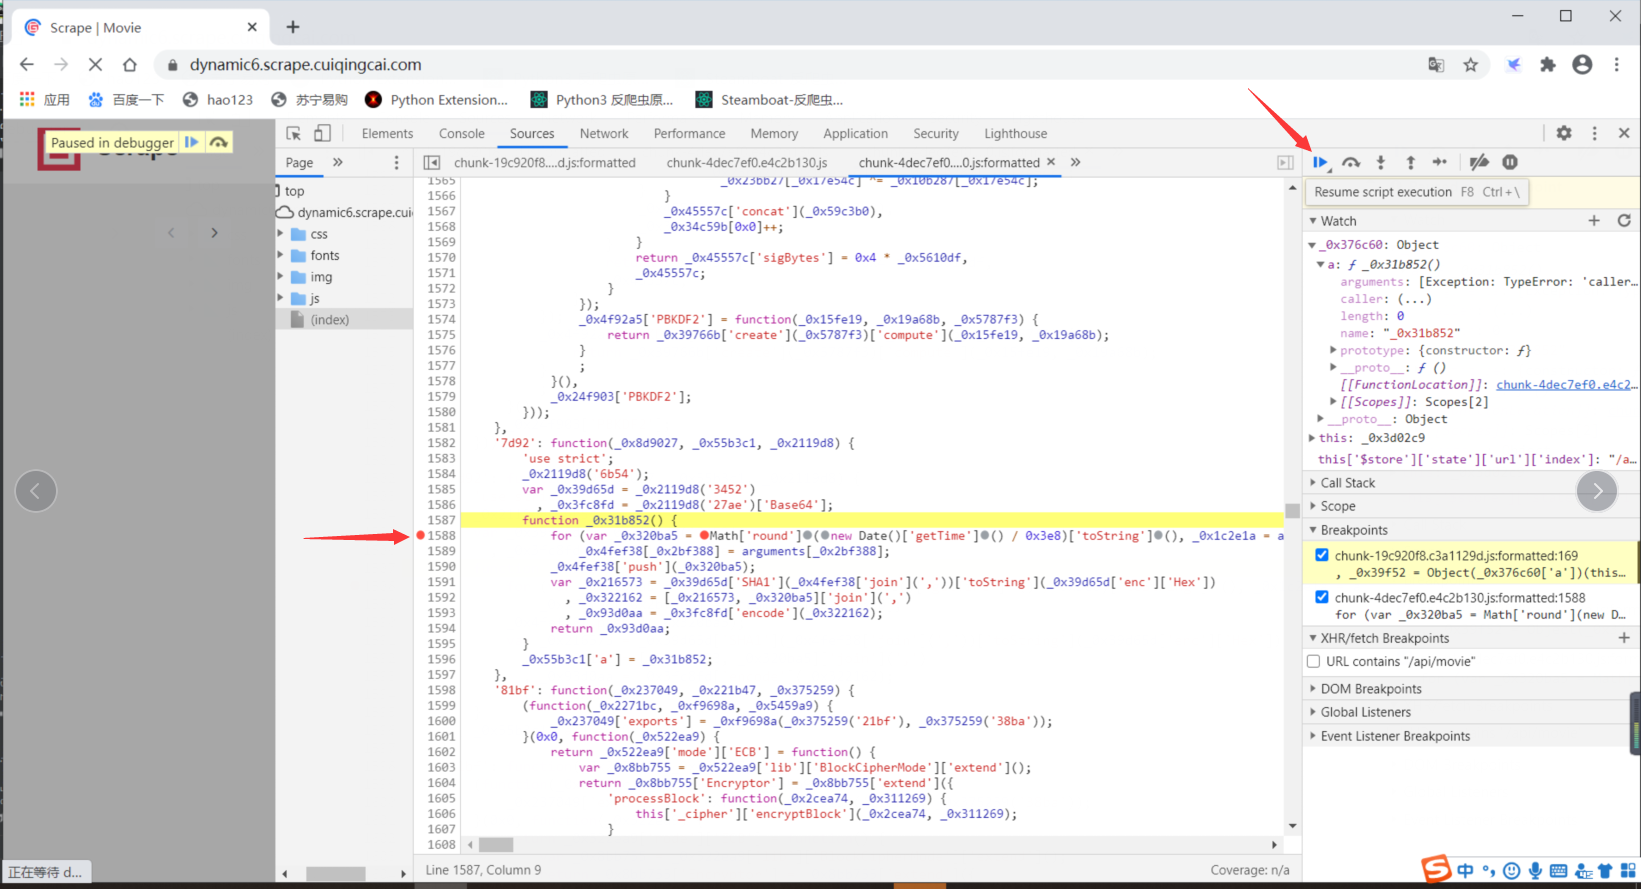
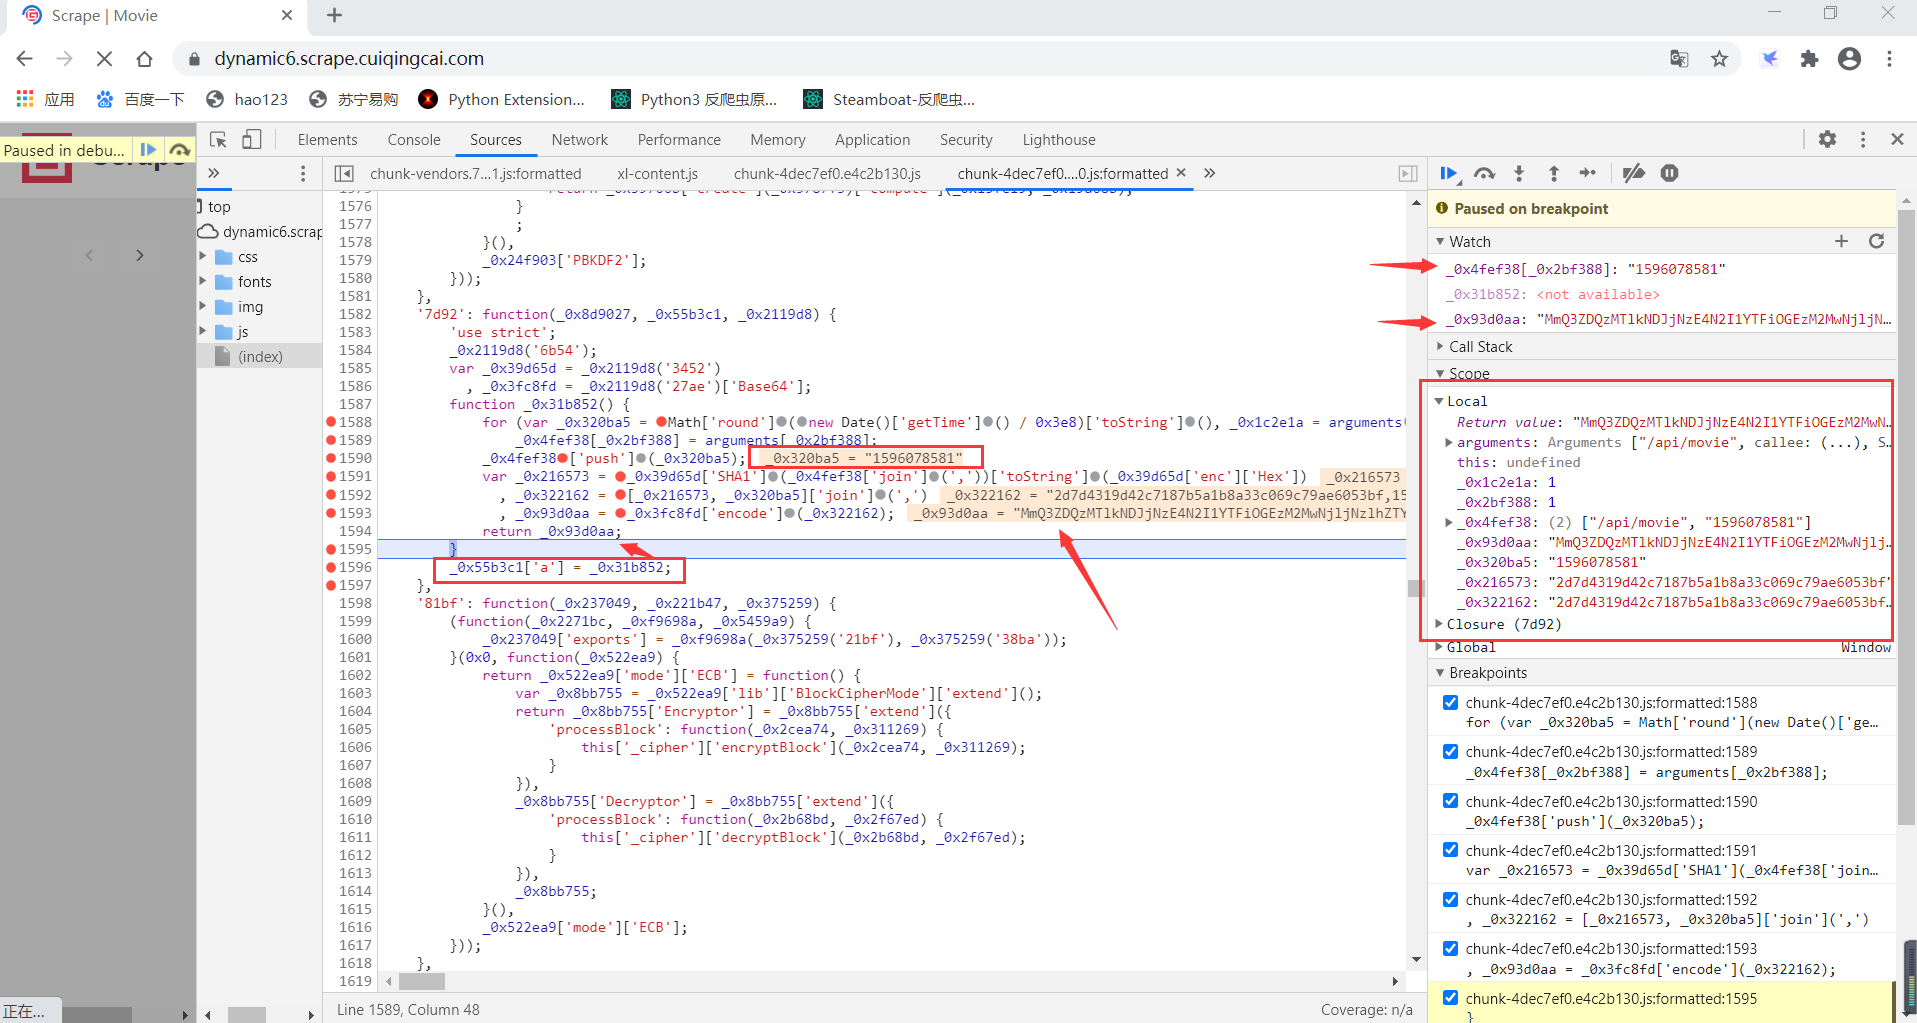
Daily Commit

Changed region(s): [[0.0, 0.0, 1.0, 1.0], [0.7459, 0.0911, 0.777, 0.1215]]

diff --git a/003_JavaScript逆向_混淆加密_Ajax动态异步请求_JavaScript动态请求页面分析.MD b/003_JavaScript逆向_混淆加密_Ajax动态异步请求_JavaScript动态请求页面分析.MD
@@ -546,6 +546,7 @@
     - token值对应的变量 var _0x39f52 = Object(_0x376c60['a'])(this['$store']['state']['url']['index']);_0x39f52 = Object(_0x376c60['a'])(this['$store']['state']['url']['index']);
     - 查看![图片034](003_JavaScript混淆加密_Ajax动态请求_哔哩哔哩JS动态请求分析提取/034_JavaScript逆向实例1_XHR断点_ajax接口token参数查找.png)
     - 此时我们移动鼠标到 _0x39f52 上显示出来的就是具体的token对应的值，一个加密的字符串
+    - token 值是由 _0x376c60['a'] 对应一个函数和 /api/movie 一起生成的
     - 移动鼠标到 _0x376c60 和 this 上面会显示该值具体的内容
     - 查看具体的内容，也可以右侧 watch 点击 + 号，将 _0x376c60 和 this 直接复制添加
     - 鼠标复制 this['$store']['state']['url']['index'] 悬浮窗就会显示对应的值：/api/movie
@@ -555,7 +556,8 @@
     - 然后 this['$store']['state']['url']['index'] 的值其实就是 /api/movie，就是 Ajax 请求 URL 的 Path。
     - token 值对应的变量 _0x39f52 的属性值就是调用了上面这个 function 函数，然后传入了 /api/movie 得到的。
     - 查看![图片036](003_JavaScript混淆加密_Ajax动态请求_哔哩哔哩JS动态请求分析提取/036_JavaScript逆向实例1_XHR断点_ajax接口token构造逻辑分析.png)
-    
+
+- token 值生成逻辑：    
     - 经过上面分析，已经发现token值是有一个function函数生成的，下一步就是去寻找这个 function 在哪里了，
     - 我们可以把 Watch 面板的 _0x376c60 展开，展开列表里面会显示一个 FunctionLocation，就是这个 function 的代码位置
     - 点击对应的位置进入之后发现其仍然是未格式化的代码，再次点击 {} 格式化代码。
@@ -563,7 +565,10 @@
     - 这时候我们就进入了一个新的名字为 _0x31b852 的方法里面，这个方法里面应该就是 token 的生成逻辑了，
     - 我们再function函数这里打上断点，断点打的位置是function下一行1588行，第一个红点就是函数执行的第一个断点
     - 函数里面功能依次执行，后面都会自动打上浅蓝色断点
-    - 然后执行面板右上角蓝色箭头状暂停继续的 Resume 按钮, 调试到该函数执行位置
+    - for这一行开始，每一行都打上一个断点，然后点击 Resume 暂停继续按钮，调试到函数结束的大括号位置
+    - 每行代码执行后，变量的值都会在右上角显示灰色的值，也可以把鼠标放在变量上或者复制要查看的代码，都会弹出具体的值
+    - 右侧调试面板，watch里面可以复制添加具体的变量，添加后重刷新网页重新调试
+    - scope 栏目里面也会显示调试过的变量，函数的参数，返回值等信息
     - 查看![图片038](003_JavaScript混淆加密_Ajax动态请求_哔哩哔哩JS动态请求分析提取/038_JavaScript逆向实例1_XHR断点_ajax接口token构造逻辑分析.png)
     - function 函数具体如下：
 ```javascript
@@ -577,9 +582,31 @@ function _0x31b852() {
         return _0x93d0aa;
     }
 ```
-
-- for 后面一段代码用于获取当前的时间戳
-
+- for 这行代码里面定义了一些变量，用逗号隔开，先定义了 _0x320ba5 是一个时间戳，_0x1c2e1a 表示数组array的长度，_0x4fef38 一个初始化数组，类似列表，后面有一些干扰混淆代码
+- _0x4fef38变量: 2个元素的列表 ["/api/movie", "1596078581"]
+- 具体执行步骤：
+    - 传入的 /api/movie 参数会构造一个初始化列表，变量命名为 _0x4fef38。
+    - 获取当前的时间戳，命名为 _0x320ba5，push 到 _0x4fef38 这个变量里面。
+    - 将 _0x4fef38 变量用“,”拼接，然后进行 SHA1 编码，命名为 _0x216573。
+    - 将 _0x216573 （SHA1 编码的结果）和 _0x320ba5 （时间戳）再次用逗号拼接，命名为 _0x322162。
+    - 将 _0x322162 进行 Base64 编码，命名为 _0x93d0aa，得到最后的 token 值。
+    - 即列表页接口构造逻辑分析里面 _0x376c60['a'] 对应函数_0x31b852() 就是 _0x93d0aa token值
+    - 以上的一些逻辑经过反复的观察就可以比较轻松地总结出来了，其中有些变量可以实时查看，
+    - 同时也可以自己输入到控制台上进行反复验证，相信总结出这个结果并不难。
+    
+- 加密逻辑我们就分析出来啦，基本的思路就是，使用python实现：
+    - 先将 /api/movie 放到一个列表里面，
+        - ["/api/movie"]
+    - 上面的列表中加入当前时间戳，此时列表中有两个元素，
+        - ["/api/movie", "1596078581"]
+    - 将列表内容用逗号拼接；
+        - /api/movie,1596078581
+    - 将拼接的结果进行 SHA1 编码； 
+        - 2d7d4319d42c7187b5a1b8a33c069c79ae6053bf
+    - 将编码的结果和时间戳再次拼接；
+        - 2d7d4319d42c7187b5a1b8a33c069c79ae6053bf,1596078581
+    - 将拼接后的结果进行 Base64 编码。
+        - MmQ3ZDQzMTlkNDJjNzE4N2I1YTFiOGEzM2MwNjljNzlhZTYwNTNiZiwxNTk2MDc4NTgx
 
 
 ### 5.1.2 详情页接口逆向分析
